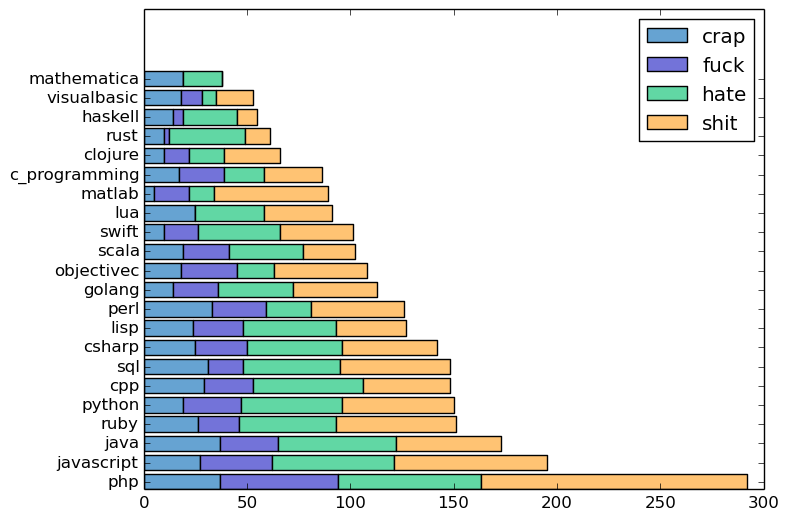
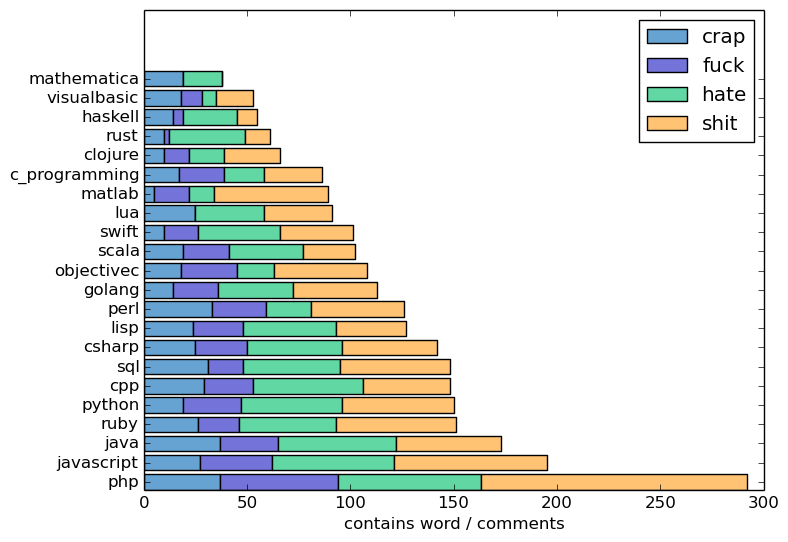
labels for axis

Changed region(s): [[0.0, 0.1231, 1.0, 0.9846], [0.1827, 0.0, 0.9746, 0.2769]]

diff --git a/crawl.py b/crawl.py
@@ -711,6 +711,7 @@ def draw_word_mentions(name, columns, colors, sorted_by_sum, filename, div_col=N
         plt.bar(left=left, height=0.8, width=value, bottom=bottoms,
                 color=color, orientation="horizontal", label=name)
     plt.yticks(bottoms+0.4, subreddits)
+    plt.xlabel('contains word / comments')
     plt.legend(loc="best", bbox_to_anchor=(1.0, 1.00))
     plt.savefig('img/' + filename + '.png', bbox_inches='tight')
     plt.close()
@@ -794,14 +795,14 @@ def draw_irc():
         'sum')
 
 def main():
-    get_submission_ids()
-    get_comments()
-    pickle_comments()
-    comments_to_db()
-    cache_db_results()
-    analyse_comments()
+    #get_submission_ids()
+    #get_comments()
+    #pickle_comments()
+    #comments_to_db()
+    #cache_db_results()
+    #analyse_comments()
     draw_graphs()
-    grep__irc()
+    #grep__irc()
     draw_irc()
 
 if __name__ == '__main__':
